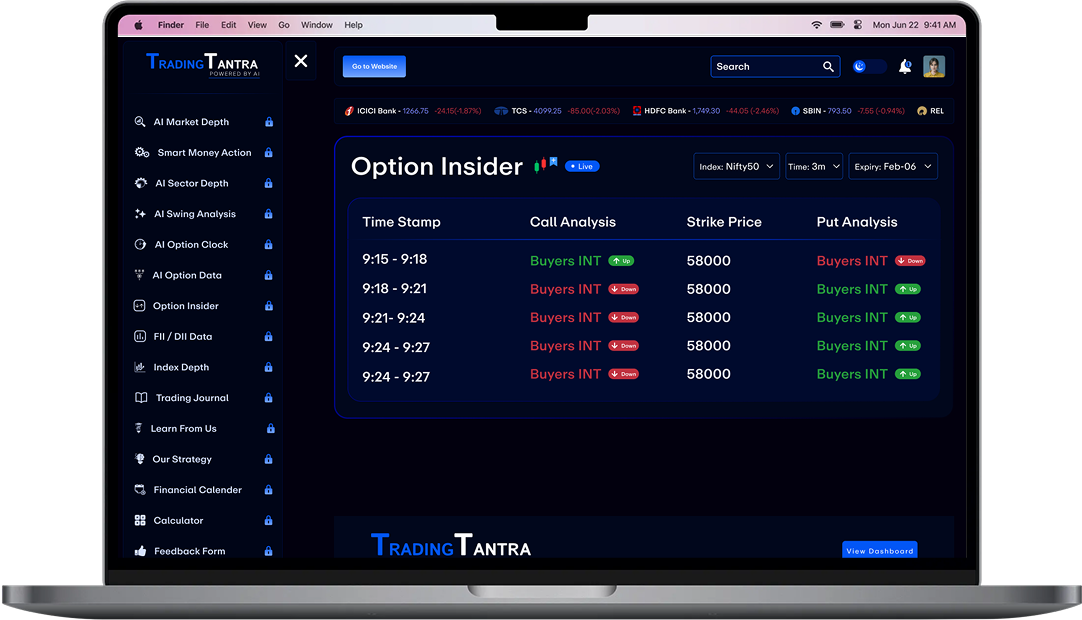
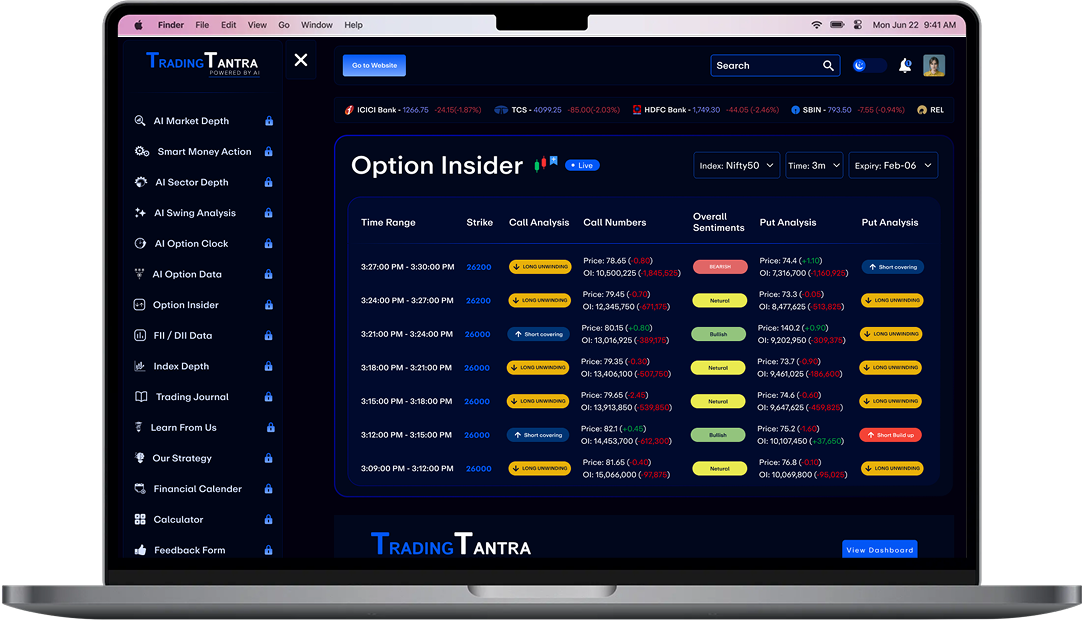
more updates in UI

diff --git a/Frontend/src/Components/Web/Header.jsx b/Frontend/src/Components/Web/Header.jsx
@@ -62,7 +62,7 @@ const Header = () => {
             {token ? (
               <button
                 onClick={() => navigate("/dashboard")}
-                className="text-[11px] md:text-lg lg:text-lg cursor-pointer font-semibold px-3 py-3 rounded-[20px] bg-blue-600 hover:brightness-125"
+                className="text-[11px] md:text-lg lg:text-lg cursor-pointer font-semibold px-6 py-3 rounded-lg h-12 w-30 sm:flex justify-center items-center bg-linear-to-b from-[#0256F5] to-[#74A4FE] text-white"
               >
                 Dashboard
               </button>

diff --git a/Frontend/src/pages/WebPage/HomePage.jsx b/Frontend/src/pages/WebPage/HomePage.jsx
@@ -19,7 +19,7 @@ const HomePage = () => {
         <div className="blue-blur-circle" />
         <div className="flex flex-col items-center justify-center mt-40 space-y-12 md:w-[70%] sm:w-[90%] w-full mx-auto">
           <img src={AiStar} alt="" />
-          <h1 className="text-primary font-extrabold md:text-6xl text-4xl text-center">
+          <h1 className="text-primary font-extrabold md:text-4xl text-4xl text-center">
             INDIA’s FIRST AI OPTIONS ANALYSER and STOCK SCREENER
           </h1>
           <p className="text-[#A6AAB2] font-sm text-center">

diff --git a/Frontend/index.html b/Frontend/index.html
@@ -5,6 +5,7 @@
     <link href="https://db.onlinewebfonts.com/c/4c2912ab0621c0910b384e6f8a2203ed?family=ABC+Repro" rel="stylesheet"
     type="text/css" />
     <link href="https://fonts.cdnfonts.com/css/inter" rel="stylesheet">
+    <link rel="icon" type="image/png" href="./src/assets/Images/favicon.svg" />
     <meta name="viewport" content="width=device-width, initial-scale=1.0" />
     <script src="https://checkout.razorpay.com/v1/checkout.js"></script>
     <title>Trading Tantra</title>

diff --git a/Frontend/src/Components/Dashboard/Header.jsx b/Frontend/src/Components/Dashboard/Header.jsx
@@ -160,10 +160,10 @@ const Header = () => {
           </div>
         </div>
 
-        <IoIosNotifications
+        {/* <IoIosNotifications
           onClick={() => navigate("/dashboard/notifications")}
           className="text-white not-dark:text-[#000E40] text-3xl"
-        />
+        /> */}
 
         <div className="relative" ref={dropdownRef}>
           <img
